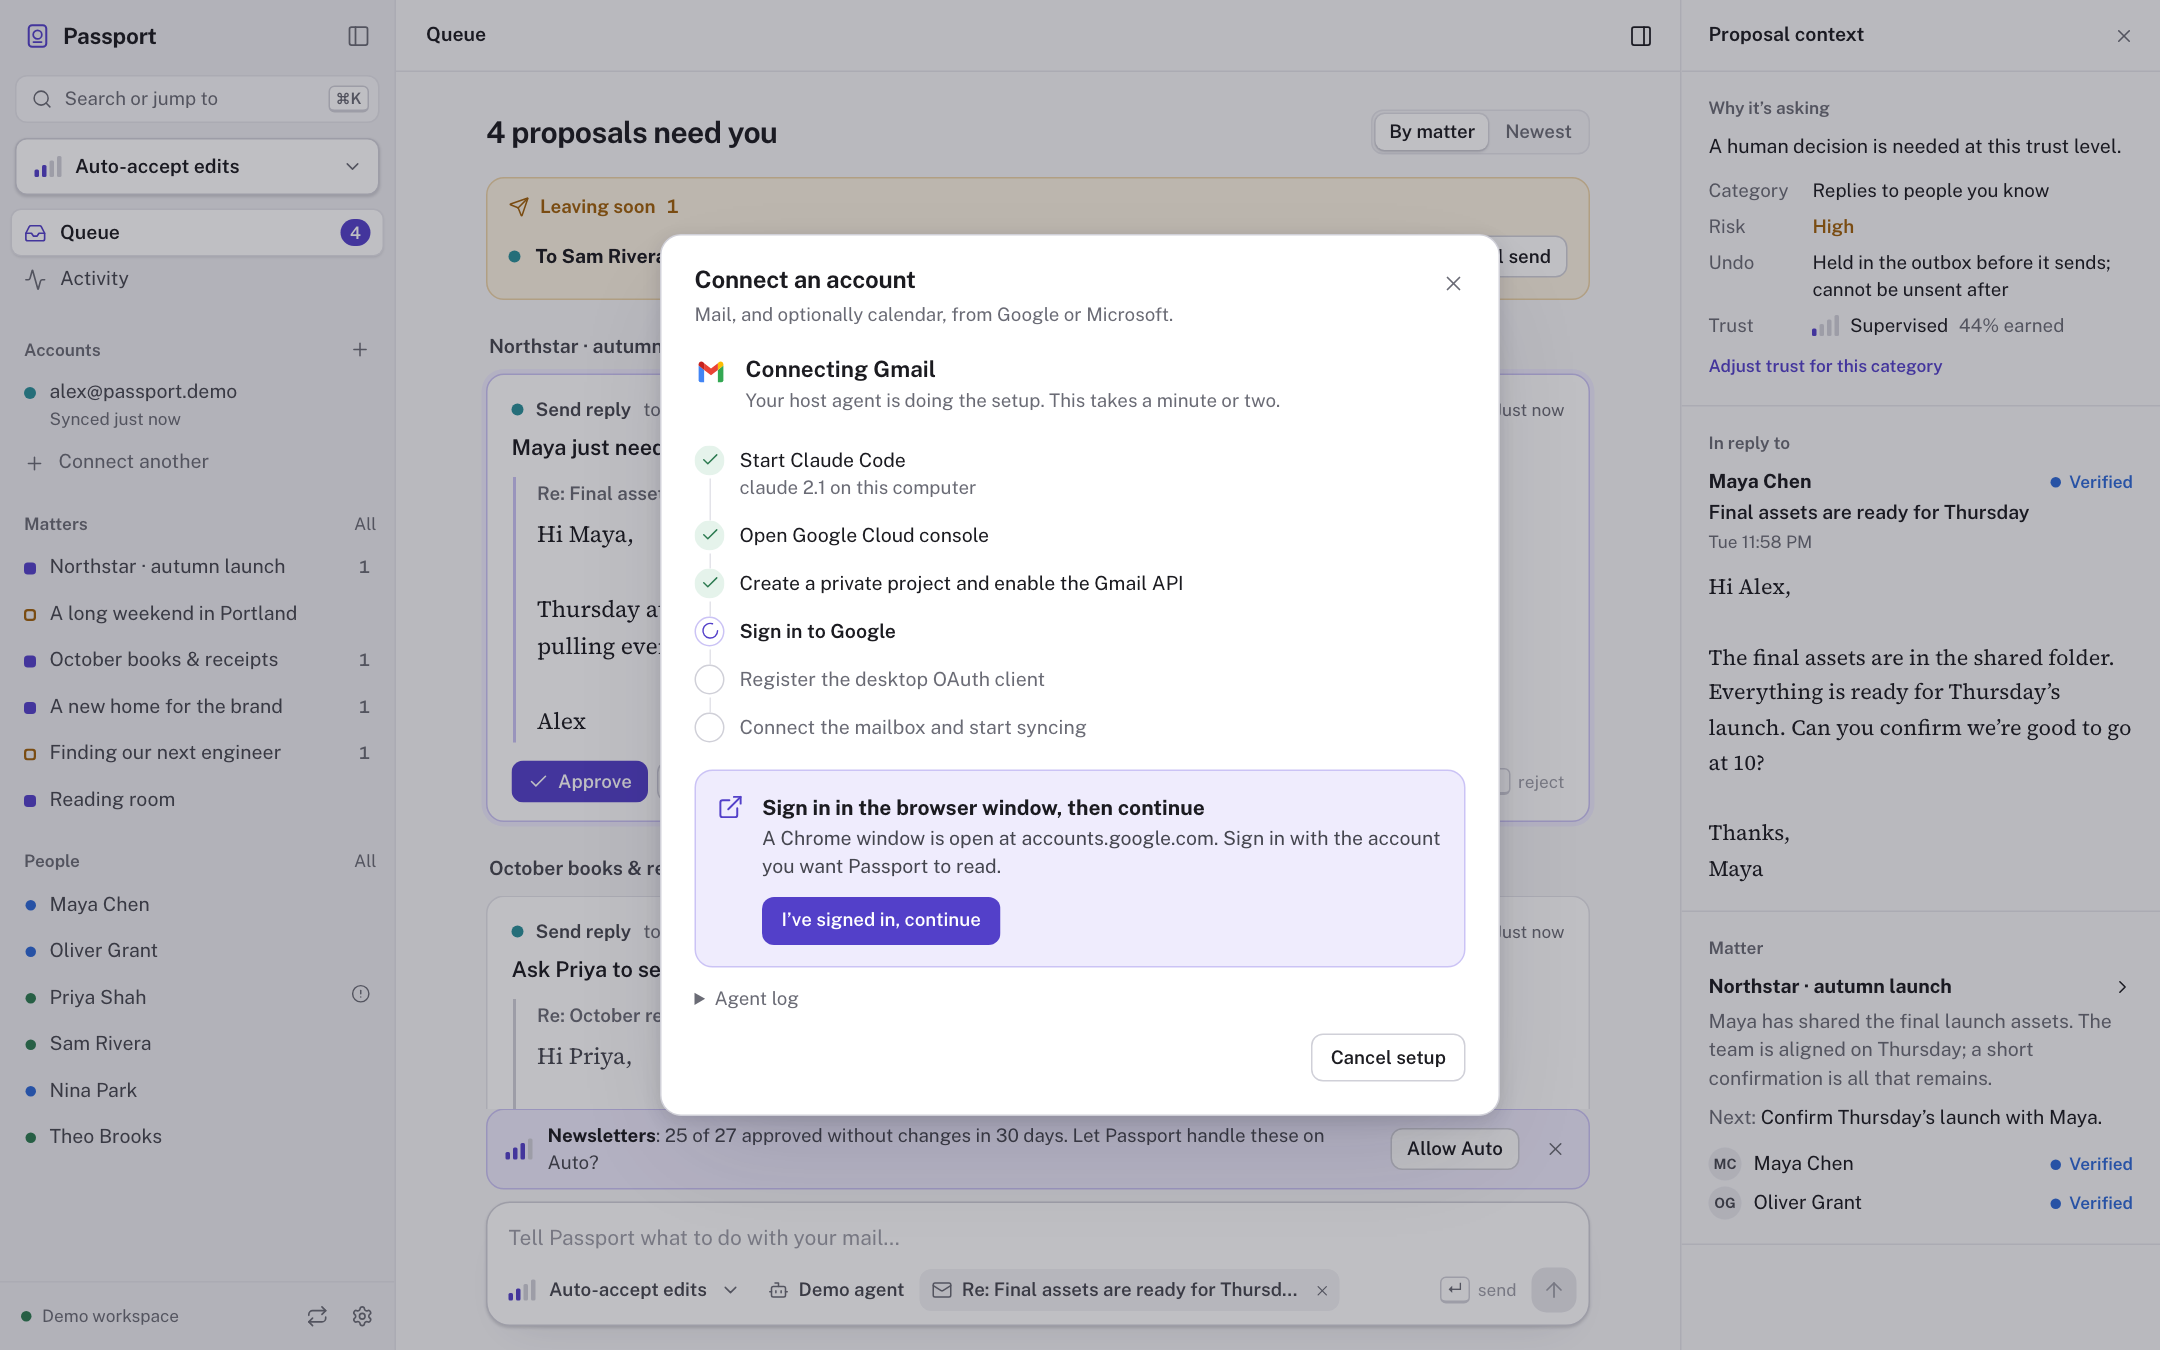
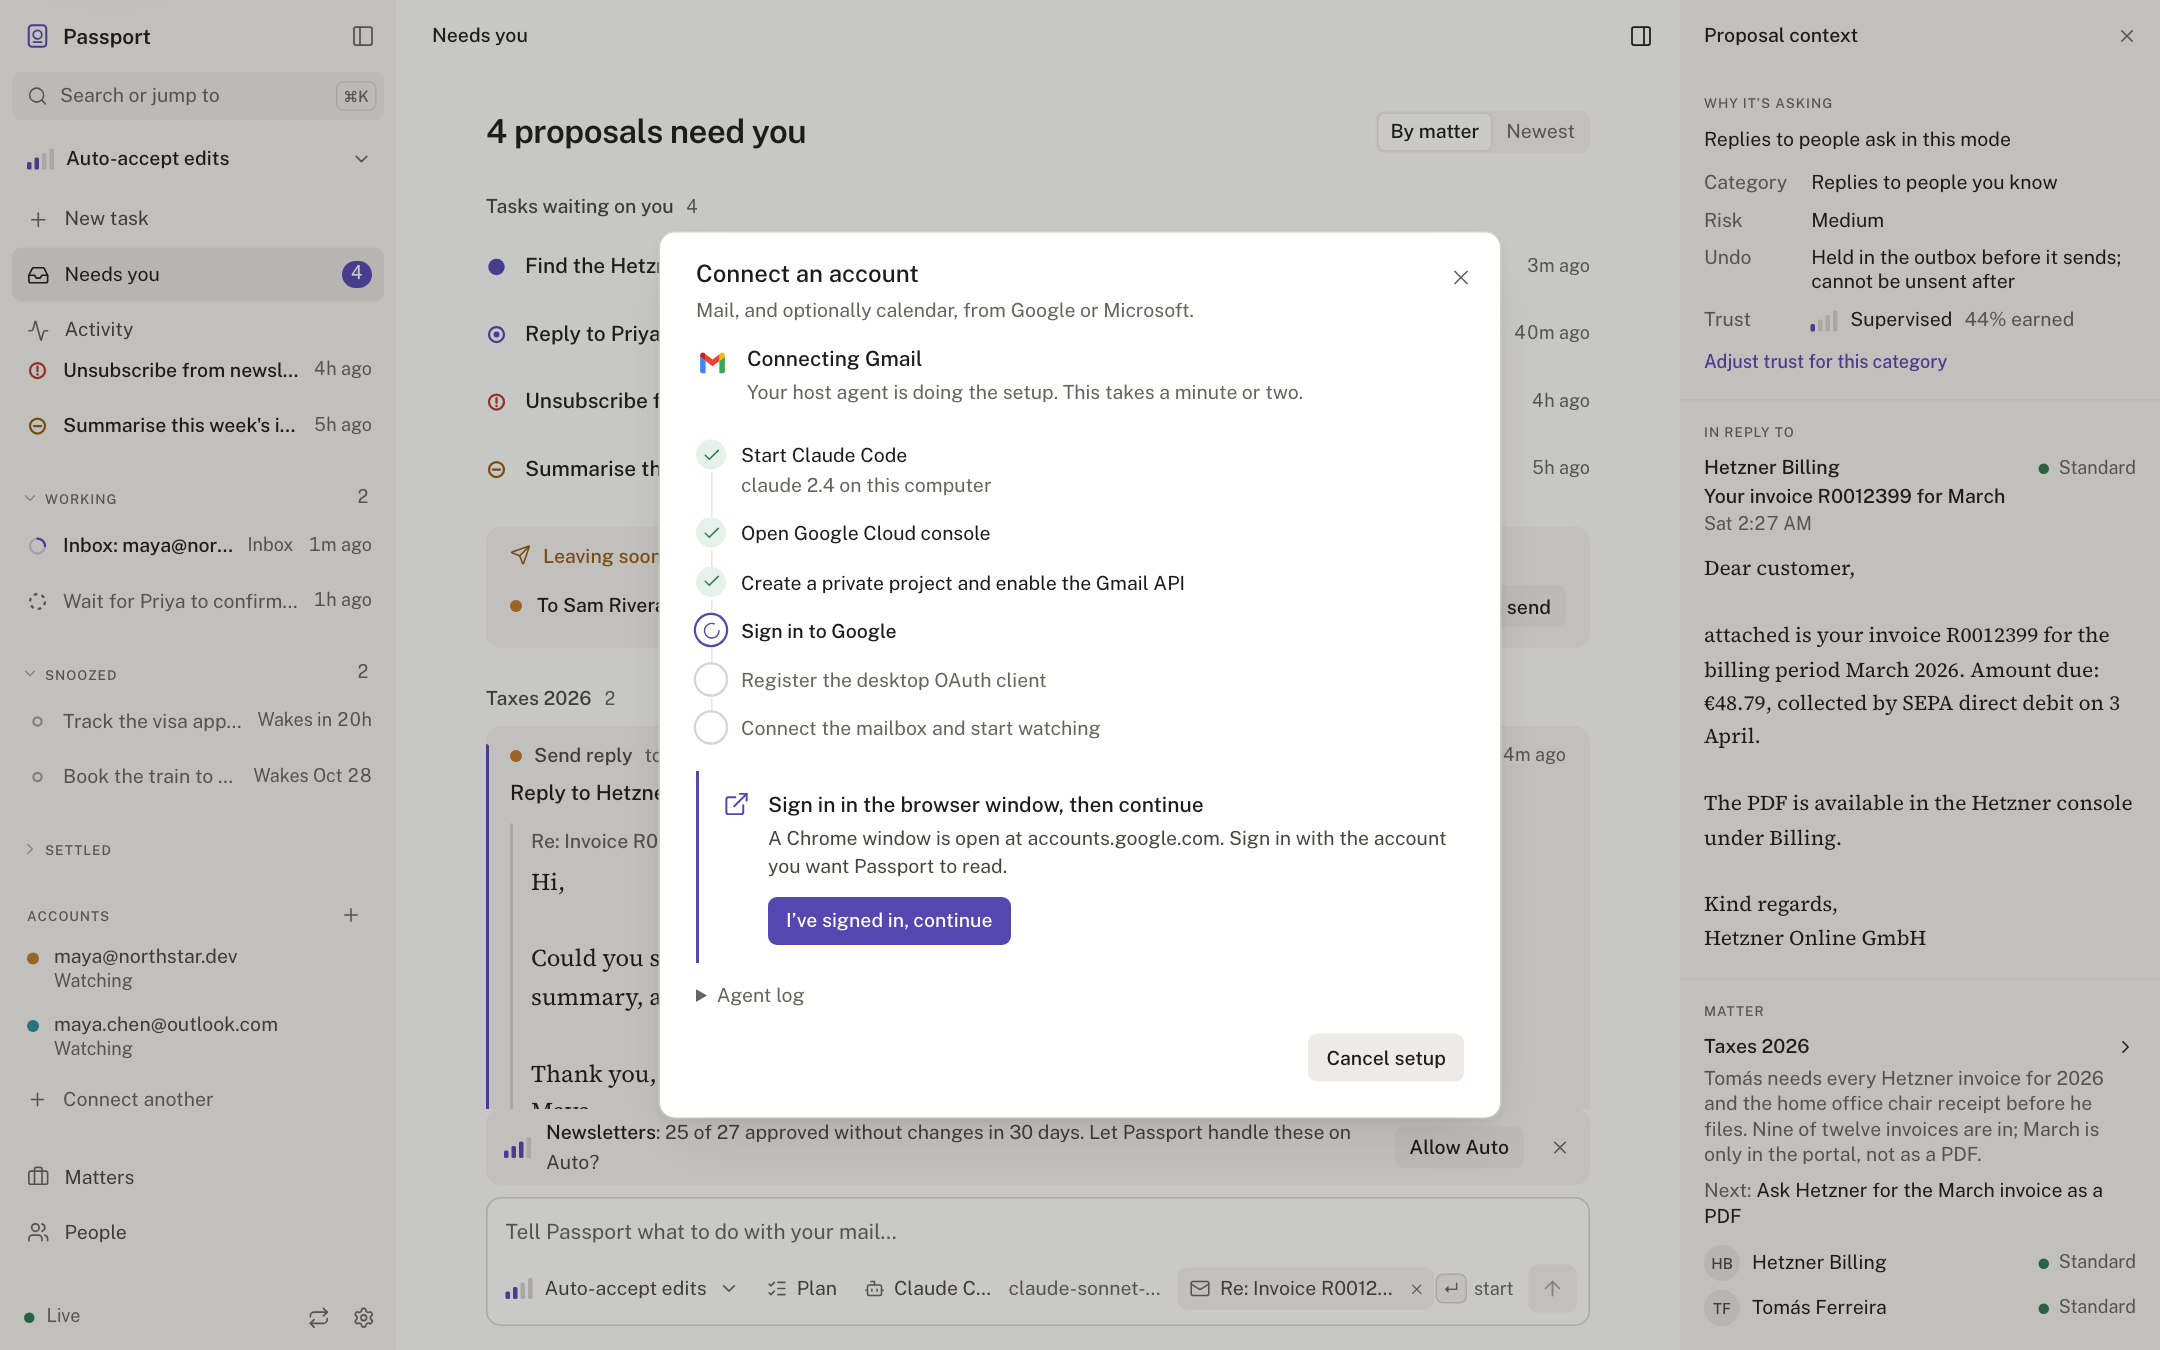
docs: v0.4 restyle in the tasks UI contract, changelog and new screenshots
The sidebar row, status marks and keyboard sections of docs/tasks.md match the restyle, with
known limitations for ⌘1–⌘9 in a browser tab and repeated palette headings. docs/screenshots
are recaptured at the same names and sizes in both themes.

diff --git a/docs/tasks.md b/docs/tasks.md
@@ -325,12 +325,22 @@ The web UI (`apps/web/src/tasks`, `views/Task.tsx`) is built on this contract:
 - **Sidebar.** Pinned, Inbox, Working, Snoozed and Settled (folded), each ordered by
   `lastActivityAt` (Snoozed by wake time). Inbox, then working and snoozed, then pinned settled
   tasks are fetched in full, following `nextCursor`; unpinned settled tasks page in 50 at a time
-  when the fold opens ("Show more"). A row shows the title, an Inbox or Routine badge, a status
-  mark (running, watching, needs approval, failed), the pending approval count and the account
-  dots. Its menu pins, snoozes until a preset or a chosen time, settles or archives. These
-  changes apply at once and roll back if the server refuses; frames arriving meanwhile keep the
-  guess on top. Pin and unpin toasts offer Undo. `j`/`k` move between rows (anywhere but the
-  Needs you queue, which keeps its own), Enter opens, and ⌘K finds tasks.
+  when the fold opens ("Show more"). A row is one 36 px line: the status mark, the title, an
+  Inbox or Routine word, and the pending approval count or the time. The title recedes (muted)
+  when nothing is new and comes forward when the task needs the person, finished or woke unseen,
+  or `returnedAt` is after `seenAt`. Its menu pins, snoozes until a preset or a chosen time,
+  settles or archives. These changes apply at once and roll back if the server refuses; frames
+  arriving meanwhile keep the guess on top. Pin and unpin toasts offer Undo for five seconds,
+  also on ⌘Z. `j`/`k` move between rows (anywhere but the Needs you queue, which keeps its own),
+  Enter opens, ⌘1–⌘9 open the first nine tasks of Pinned, Inbox, Working and Snoozed (Settled
+  never takes a number), and ⌘K finds tasks.
+- **Status marks.** One set (`tasks/TaskGlyph.tsx`, state from `taskState` in `tasks/model.ts`)
+  is used by the sidebar, the task header, Needs you and the task list, with the T3 badge words:
+  Approval (`needsUser: "approval"`), Input (`"question"`), Waiting (watching a conversation),
+  Working (a run is active, or `working` without watches), Limited, Failed (`"failure"`), Woke
+  and Done. Limited reads `needsUser: "limited"` or `limited`; Woke and Done read
+  `unseenOutcome`. Those fields arrive with the lifecycle work; until then the three marks never
+  show.
 - **Task view** (`/tasks/:id`). The timeline opens at its newest items: the first page answers
   short tasks; for longer ones the last `seq` is found with one-item `afterSeq` probes (doubling,
   then halving) and the last page is fetched. Older pages load when the top scrolls into view.
@@ -350,7 +360,8 @@ The web UI (`apps/web/src/tasks`, `views/Task.tsx`) is built on this contract:
   draft recipients, and approves all the reversible ones in one click (`once`). A decision's
   busy state is shared by every control for that action; decided actions leave the panel at
   once.
-- **Composer.** Enter sends with `mode: "queue"` and ⌘Enter with `"steer"`. Stop calls
+- **Composer.** Enter sends in the default mode (`"queue"`) and ⌘Enter in the opposite one
+  (`"steer"`); without an active run both queue. Stop calls
   `/interrupt`. Stop and steer are only offered while a run is active on a `kind: "task"` task;
   messages to inbox and routine tasks queue. The permission picker and the Plan toggle `PATCH`
   the task, and the composer says when the server returned a lower mode than the one asked for.
@@ -366,6 +377,9 @@ The web UI (`apps/web/src/tasks`, `views/Task.tsx`) is built on this contract:
 - **Refreshes.** The first `/ws` connect does not refetch; a reconnect refetches the open views
   and asks every working or seemingly running task for its runs again, so a run that ended
   offline stops showing as running. Window focus refetches only data older than 30 seconds.
+- **Keyboard.** Escape outside a text field or dialog closes the details panel (or the overlay
+  sidebar on a narrow window); dialogs and popovers close themselves first. ⌘. toggles the
+  details panel, ⌘B the sidebar, ⌘, settings, and `/` focuses the composer.
 - On the demo backend (`501 TASKS_UNAVAILABLE`) the sidebar and home say tasks need
   `passport serve`, and the composer runs the agent once (`POST /api/agent/run`) and shows the
   outcome inline.
@@ -379,7 +393,13 @@ The web UI (`apps/web/src/tasks`, `views/Task.tsx`) is built on this contract:
   task carries no last `seq` and the items route has no `beforeSeq`. Loaded items are not
   windowed; scrolling far back keeps every page in memory.
 - **R5-9:** settle, snooze and archive have no Undo (no reopen, unsnooze or unarchive route);
-  the toast says where the task went. Archiving a system task is not confirmed.
+  the toast says where the task went, and ⌘Z only undoes pin and unpin. Archiving a system task
+  is not confirmed.
+- **⌘1–⌘9 in a browser tab:** Chrome and Safari keep ⌘1–⌘9 for switching tabs, so the
+  shortcut reaches Passport in the Mac app and with Ctrl on other systems, not in a Mac browser
+  tab.
+- **Command palette:** while searching, results are ranked across groups, so a group heading can
+  repeat (Tasks, Matters, Tasks).
 - **R5-15:** a decision card on Needs you and the same action in an open task share busy state
   only within one tab.
 - **R5-18:** the clamp notice always names the account ladder, even when a parent task caused

diff --git a/CHANGELOG.md b/CHANGELOG.md
@@ -3,6 +3,28 @@
 Notable changes are recorded here. The first version heading is the CLI artifact
 version; release tags must match it. Move Unreleased to a date before tagging.
 
+## [Unreleased]
+
+### Changed
+
+- The web UI is restyled to the v0.4 design brief ("classy, not showy") in both themes: warm-grey
+  surface steps instead of borders, one desaturated indigo accent for the primary action, focus
+  and the Needs you count, five type sizes, one control radius and one panel radius, and a single
+  elevation for popovers and dialogs. Timeline items no longer nest cards: your messages sit in a
+  tinted block, replies are plain prose, run headers are a hairline, and decisions hang from an
+  accent rule. The approval panel above the composer is a calm list. Sidebar rows are one 36 px
+  line with small-caps section headers.
+- One status mark set (Approval, Input, Waiting, Working, Limited, Failed, Woke, Done) is used by
+  the sidebar, the task header, Needs you and the task list.
+- `styles.css` and `styles-tasks.css` are now tokens plus layered component and screen sheets
+  under `apps/web/src/styles/`; dead rules are removed.
+
+### Added
+
+- ⌘1–⌘9 open the first nine sidebar tasks, Escape closes the details panel, ⌘Enter sends with
+  the opposite of the default send mode, and ⌘Z undoes a pin or unpin while its five-second
+  toast shows.
+
 ## [0.3.2] — 2026-10-24
 
 ### Fixed
